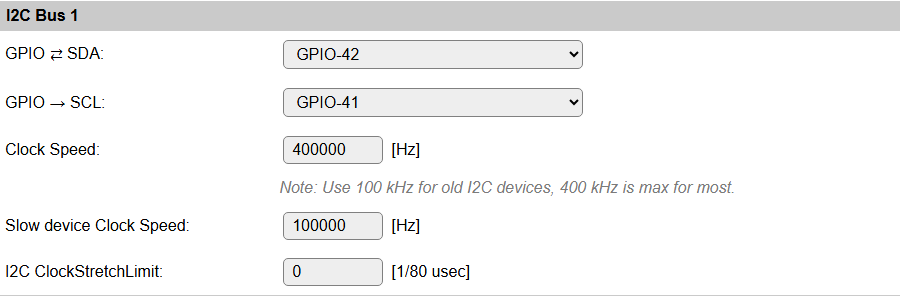
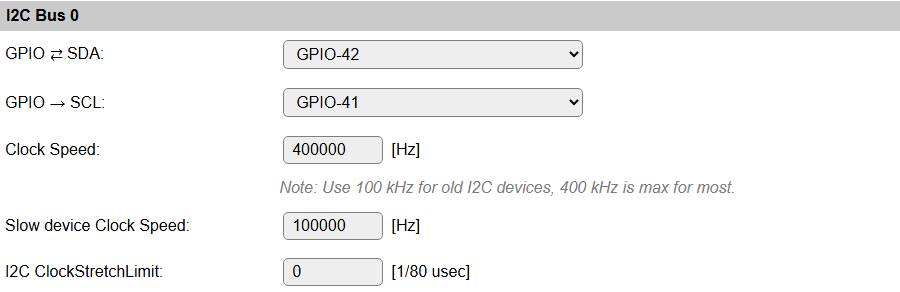
[I2C] Renumber buses starting from 0 instead of 1

diff --git a/src/src/WebServer/HardwarePage.cpp b/src/src/WebServer/HardwarePage.cpp
@@ -216,7 +216,7 @@ void handle_hardware() {
     #if !FEATURE_I2C_MULTIPLE
     addFormSubHeader(F("I2C Bus"));
     #else // if !FEATURE_I2C_MULTIPLE
-    addFormSubHeader(strformat(F("I2C Bus %u"), i2cBus + 1));
+    addFormSubHeader(strformat(F("I2C Bus %u"), i2cBus));
     #endif // if !FEATURE_I2C_MULTIPLE
     #if FEATURE_PLUGIN_PRIORITY
     if (isI2CPriorityTaskActive(i2cBus)) {
@@ -247,7 +247,7 @@ void handle_hardware() {
     #if !FEATURE_I2C_MULTIPLE
     addFormSubHeader(F("I2C Multiplexer"));
     #else // if !FEATURE_I2C_MULTIPLE
-    addFormSubHeader(strformat(F("I2C Multiplexer %u"), i2cBus + 1));
+    addFormSubHeader(strformat(F("I2C Multiplexer %u"), i2cBus));
     #endif // if FEATURE_I2C_MULTIPLE
     // Select the type of multiplexer to use
     {
@@ -492,7 +492,7 @@ bool isI2CPriorityTaskActive(uint8_t i2cBus) {
 void I2CShowSdaSclReadonly(int8_t i2c_sda, int8_t i2c_scl, uint8_t i2cBus) {
   int  pinnr = -1;
   bool input, output, warning = false;
-  addFormNote(strformat(F("I2C (%d) GPIO pins can't be changed when an I2C Priority task is configured."), i2cBus + 1));
+  addFormNote(strformat(F("I2C (%d) GPIO pins can't be changed when an I2C Priority task is configured."), i2cBus));
   addRowLabel(formatGpioName_bidirectional(F("SDA")));
   getGpioInfo(i2c_sda, pinnr, input, output, warning);
   addHtml(createGPIO_label(i2c_sda, pinnr, true, true, false));

diff --git a/src/src/Helpers/StringGenerator_GPIO.cpp b/src/src/Helpers/StringGenerator_GPIO.cpp
@@ -277,10 +277,10 @@ const __FlashStringHelper* getConflictingUse(int gpio, PinSelectPurpose purpose,
       if (Settings.getI2CSdaPin(i2cBus) == gpio) {
         #if FEATURE_I2C_MULTIPLE
         switch (i2cBus) {
-          case 0:  return F("I2C SDA (bus 1)");
-          case 1:  return F("I2C SDA (bus 2)");
+          case 0:  return F("I2C SDA (bus 0)");
+          case 1:  return F("I2C SDA (bus 1)");
           #if FEATURE_I2C_INTERFACE_3
-          case 2:  return F("I2C SDA (bus 3)");
+          case 2:  return F("I2C SDA (bus 2)");
           #endif
         }
         #else
@@ -290,10 +290,10 @@ const __FlashStringHelper* getConflictingUse(int gpio, PinSelectPurpose purpose,
       if (Settings.getI2CSclPin(i2cBus) == gpio) {
         #if FEATURE_I2C_MULTIPLE
         switch (i2cBus) {
-          case 0:  return F("I2C SCL (bus 1)");
-          case 1:  return F("I2C SCL (bus 2)");
+          case 0:  return F("I2C SCL (bus 0)");
+          case 1:  return F("I2C SCL (bus 1)");
           #if FEATURE_I2C_INTERFACE_3
-          case 2:  return F("I2C SCL (bus 3)");
+          case 2:  return F("I2C SCL (bus 2)");
           #endif
         }
         #else

diff --git a/src/src/Helpers/I2C_access.cpp b/src/src/Helpers/I2C_access.cpp
@@ -440,31 +440,27 @@ void I2CInterfaceSelector(String  label,
 
   if (i2cMaxBusCount > 1) {
     static uint8_t i2cBusCount = 0;
-    static String  i2cBusList[3];
     static int     i2cBusNumbers[3];
 
-    if (i2cBusList[0].isEmpty() || (i2cBusCount != i2cMaxBusCount)) {
+    if (i2cBusCount != i2cMaxBusCount) {
       i2cBusCount                = 0;
-      i2cBusList[i2cBusCount]    = '1';
       i2cBusNumbers[i2cBusCount] = 0;
       ++i2cBusCount;
 
       if ((getI2CBusCount() > 1) && Settings.isI2CEnabled(1)) {
-        i2cBusList[i2cBusCount]    = '2';
         i2cBusNumbers[i2cBusCount] = 1;
         ++i2cBusCount;
       }
       # if FEATURE_I2C_INTERFACE_3
 
       if ((getI2CBusCount() > 2) && Settings.isI2CEnabled(2)) {
-        i2cBusList[i2cBusCount]    = '3';
         i2cBusNumbers[i2cBusCount] = 2;
         ++i2cBusCount;
       }
       # endif // if FEATURE_I2C_INTERFACE_3
     }
     FormSelectorOptions selector(i2cBusCount,
-                                 i2cBusList, i2cBusNumbers);
+                                 i2cBusNumbers);
     selector.default_index = 0;
     bool reloadOnChange = false;
 

diff --git a/src/src/WebServer/I2C_Scanner.cpp b/src/src/WebServer/I2C_Scanner.cpp
@@ -504,7 +504,7 @@ void handle_i2cscanner() {
   {
     html_table_class_multirow();
     #if FEATURE_I2C_MULTIPLE
-    html_table_header(strformat(F("I2C Bus %d"), i2cBus + 1));
+    html_table_header(strformat(F("I2C Bus %d"), i2cBus));
     html_TR();
     #endif // if FEATURE_I2C_MULTIPLE
     #if FEATURE_I2CMULTIPLEXER
@@ -556,7 +556,7 @@ void handle_i2cscanner() {
       nDevices = 0; // Reset for next interface
     } else {
       html_TR_TD();
-      addHtml(strformat(F("I2C pins not configured for bus %d"), i2cBus + 1));
+      addHtml(strformat(F("I2C pins not configured for bus %d"), i2cBus));
     }
     html_end_table();
     I2CSelectHighClockSpeed(0);   // By default the bus is in standard speed

diff --git a/src/src/Helpers/Hardware_I2C.cpp b/src/src/Helpers/Hardware_I2C.cpp
@@ -35,7 +35,7 @@ void initI2C() {
       #if !FEATURE_I2C_MULTIPLE
       addLog(LOG_LEVEL_INFO, F("INIT : I2C Bus"));
       #else // if !FEATURE_I2C_MULTIPLE
-      addLog(LOG_LEVEL_INFO, concat(F("INIT : I2C Bus "), i2cBus + 1));
+      addLog(LOG_LEVEL_INFO, concat(F("INIT : I2C Bus "), i2cBus));
       #endif // if !FEATURE_I2C_MULTIPLE
       I2CSelectHighClockSpeed(i2cBus); // Set normal clock speed, on I2C Bus 1 (index 0)
     }

diff --git a/src/src/Commands/i2c.cpp b/src/src/Commands/i2c.cpp
@@ -17,7 +17,7 @@ void i2c_scanI2Cbus(bool dbg, int8_t channel, uint8_t i2cBus) {
   #if FEATURE_I2CMULTIPLEXER
 
   if (-1 == channel) {
-    serialPrintln(concat(F("Standard I2C bus "), i2cBus + 1));
+    serialPrintln(concat(F("Standard I2C bus "), i2cBus));
   } else {
     serialPrintln(concat(F("Multiplexer channel "), channel));
   }

diff --git a/src/src/WebServer/DevicesPage.cpp b/src/src/WebServer/DevicesPage.cpp
@@ -840,7 +840,7 @@ void format_I2C_port_description(taskIndex_t x)
     html_BR();
     addHtml(F("I2C Bus"));
     addHtml(' ');
-    addHtmlInt(i2cBus + 1);
+    addHtmlInt(i2cBus);
   }
   #else
   const uint8_t i2cBus = 0;

diff --git a/docs/source/Hardware/Hardware.rst b/docs/source/Hardware/Hardware.rst
@@ -52,7 +52,7 @@ ESPEasy has a separate setting for Slow I2C devices, and per I2C device this slo
 - `I2C-bus.org - Clock Stretching <https://www.i2c-bus.org/clock-stretching/>`_
 - `ESPeasy wiki - Basics: The I2C Bus <https://www.letscontrolit.com/wiki/index.php/Basics:_The_I%C2%B2C_Bus>`_
 
-This setting is only available for the first I2C Bus, as not many devices (should) need this set, and the devices that do need this should then be connected to I2C Bus 1.
+This setting is only available for the first I2C Bus, as not many devices (should) need this set, and the devices that do need this should then be connected to I2C Bus 0.
 
 .. image:: Hardware_I2CBus.png
 
